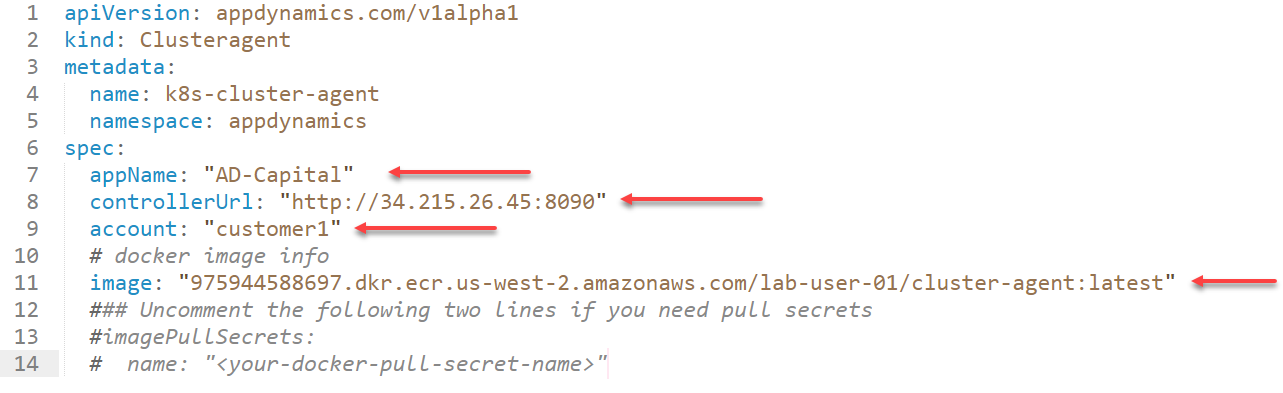
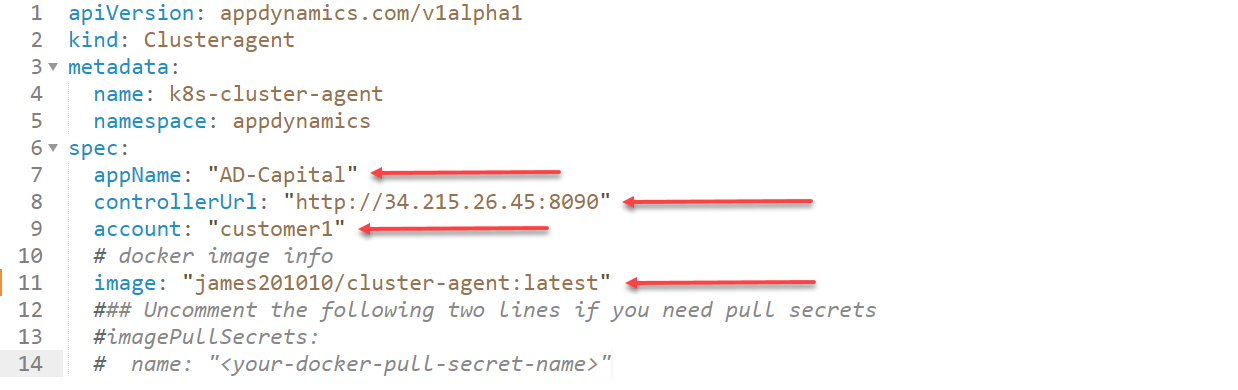
Added and updated artifacts for new Cluster Agent Lab

diff --git a/workshops/aws/eks-monitoring-lab/lab-exercise-06.md b/workshops/aws/eks-monitoring-lab/lab-exercise-06.md
@@ -77,94 +77,13 @@ You should see output from the command similar to the image seen below:
 
 ### **2.** Build the Cluster Agent Docker image
 
-Use your [AWS Management Console](https://aws.amazon.com/console/) and follow the steps below to create a Docker repository in AWS ECR within your region:
-
-1. Click on the "Services" link at the top left of the console
-2. Type in "ECR" into the search box
-3. Click on the first entry named "ECR"
-
-![Cluster Agent ECR-01](./images/cluster-agent-ecr-01.png)
-<br><br>
-
-4. Click on "Repositories" on the left
-5. Click on the "Create repository" button on the top right
-
-![Cluster Agent ECR-02](./images/cluster-agent-ecr-02.png)
-<br><br>
-
-6. Enter the name of your repository as seen in the image below and use your specific lab user number where the red arrow is pointing to, so you **ensure that your repository name is unique**.  For example, if your lab user name is "Lab-User-01" then your repository name would be "lab-user-01/cluster-agent"
-7. Click on the "Create repository" button on the bottom right
-
-![Cluster Agent ECR-03](./images/cluster-agent-ecr-03.png)
-<br><br>
-
-8. Now click on the "View push commands" button on the top right 
-
-![Cluster Agent ECR-04](./images/cluster-agent-ecr-04.png)
-<br><br>
-
-9. Highlight the login command as seen in the image below, then copy and paste it into your SSH terminal window 
-
-![Cluster Agent ECR-05](./images/cluster-agent-ecr-05.png)
-<br><br>
-
-10. Once you have pasted the command into the terminal window and executed the command, you should see a large block of text that you need to highlight and copy as seen in the image below where the block of text has been highlighted in grey 
-
-![Cluster Agent ECR-06](./images/cluster-agent-ecr-06.png)
-<br><br>
-
-11. Now paste the large login command into the terminal window and execute the command. You should see the "Login Succeeded" as the final output of the command
-
-![Cluster Agent ECR-07](./images/cluster-agent-ecr-07.png)
-<br><br>
-
-12. Use the command below to change to the docker directory in your SSH terminal window
+For the purposes of this lab we will use a pre-built Cluster Agent Docker image with the following Image URI: 
 
 ```
-cd /home/centos/AppD-Cloud-Kickstart/applications/aws/AD-Capital-Kube/ClusterAgent/docker
+james201010/cluster-agent:latest
 ```
 
-![Cluster Agent ECR-08](./images/cluster-agent-ecr-08.png)
-<br><br>
-
-13. Copy the docker build command highlighted in the image below and paste it into your SSH terminal window and execute the command
-
-![Cluster Agent ECR-09](./images/cluster-agent-ecr-09.png)
-<br><br>
-
-
-14. Once you have copied the docker build command into your SSH terminal window and executed it, you should see output like the image below.
-
-![Cluster Agent ECR-10](./images/cluster-agent-ecr-10.png)
-<br><br>
-
-
-15. Copy the docker tag command highlighted in the image below and paste it into your SSH terminal window and execute the command.
-
-![Cluster Agent ECR-11](./images/cluster-agent-ecr-11.png)
-<br><br>
-
-
-16. Once you have copied the docker tag command into your SSH terminal window and executed it, you can then execute the ``` docker images ``` command and should see output like the image below.
-
-![Cluster Agent ECR-12](./images/cluster-agent-ecr-12.png)
-<br><br>
-
-
-17. Copy the docker push command highlighted in the image below and paste it into your SSH terminal window and execute the command.
-
-![Cluster Agent ECR-13](./images/cluster-agent-ecr-13.png)
-<br><br>
-
-18. Once you have copied the docker push command into your SSH terminal window and executed it, you should see output like the image below.
-
-![Cluster Agent ECR-14](./images/cluster-agent-ecr-14.png)
-<br><br>
-
-19. Now drill into your Docker repository in the AWS Console, you should see your newly published image inside your repo.  Copy the Image URI of your new image and save it in a text file to use in the next section of the lab.
-
-![Cluster Agent ECR-15](./images/cluster-agent-ecr-15.png)
-<br><br>
+However, if you were deploying the Cluster Agent in your own Kubernetes cluster, you would need to build your own Cluster Agent Docker image in your own Docker repository.  Instructions for building your own Cluster Agent Docker image can be found [here](lab-exercise-06-b.md) and are included for reference only.
 
 <br>
 
@@ -213,12 +132,14 @@ cd /home/centos/AppD-Cloud-Kickstart/applications/aws/AD-Capital-Kube/ClusterAge
 BEFORE:
 ![Cluster Agent Deploy-04](./images/cluster-agent-deploy-04.png)
 
-<br><br>
+<br>
 
 Line 7 should = "AD-Capital"<br>
 Line 8 should = The URL for your controller including the protocol and port (surrounded in double quotes)<br>
 Line 9 should = "customer1"<br>
-Line 11 should = The Image URI of your docker image created in this lab (Section 2.19) - (surrounded in double quotes)
+Line 11 should = "james201010/cluster-agent:latest"
+
+**Note:** Use the value seen above for Line 11 unless you built your own docker image in step number 2.  In that case you would use the Image URI of your docker image.
 
 <br><br>
 

diff --git a/workshops/aws/eks-monitoring-lab/lab-exercise-06-b.md b/workshops/aws/eks-monitoring-lab/lab-exercise-06-b.md
@@ -1,0 +1,94 @@
+### **2.** Build Your Own Cluster Agent Docker image in AWS ECR
+
+These instructions for building your own Cluster Agent Docker image are for reference only and not intended to be part of the instructor lead lab.  If you are participating in an instructor lead lab, please use the pre-built Cluster Agent Docker image referenced [here](lab-exercise-06.md#2.).
+
+Use your [AWS Management Console](https://aws.amazon.com/console/) and follow the steps below to create a Docker repository in AWS ECR within your region:
+
+1. Click on the "Services" link at the top left of the console
+2. Type in "ECR" into the search box
+3. Click on the first entry named "ECR"
+
+![Cluster Agent ECR-01](./images/cluster-agent-ecr-01.png)
+<br><br>
+
+4. Click on "Repositories" on the left
+5. Click on the "Create repository" button on the top right
+
+![Cluster Agent ECR-02](./images/cluster-agent-ecr-02.png)
+<br><br>
+
+6. Enter the name of your repository as seen in the image below and use your specific lab user number where the red arrow is pointing to, so you **ensure that your repository name is unique**.  For example, if your lab user name is "Lab-User-01" then your repository name would be "lab-user-01/cluster-agent"
+7. Click on the "Create repository" button on the bottom right
+
+![Cluster Agent ECR-03](./images/cluster-agent-ecr-03.png)
+<br><br>
+
+8. Now click on the "View push commands" button on the top right 
+
+![Cluster Agent ECR-04](./images/cluster-agent-ecr-04.png)
+<br><br>
+
+9. Highlight the login command as seen in the image below, then copy and paste it into your SSH terminal window 
+
+![Cluster Agent ECR-05](./images/cluster-agent-ecr-05.png)
+<br><br>
+
+10. Once you have pasted the command into the terminal window and executed the command, you should see a large block of text that you need to highlight and copy as seen in the image below where the block of text has been highlighted in grey 
+
+![Cluster Agent ECR-06](./images/cluster-agent-ecr-06.png)
+<br><br>
+
+11. Now paste the large login command into the terminal window and execute the command. You should see the "Login Succeeded" as the final output of the command
+
+![Cluster Agent ECR-07](./images/cluster-agent-ecr-07.png)
+<br><br>
+
+12. Use the command below to change to the docker directory in your SSH terminal window
+
+```
+cd /home/centos/AppD-Cloud-Kickstart/applications/aws/AD-Capital-Kube/ClusterAgent/docker
+```
+
+![Cluster Agent ECR-08](./images/cluster-agent-ecr-08.png)
+<br><br>
+
+13. Copy the docker build command highlighted in the image below and paste it into your SSH terminal window and execute the command
+
+![Cluster Agent ECR-09](./images/cluster-agent-ecr-09.png)
+<br><br>
+
+
+14. Once you have copied the docker build command into your SSH terminal window and executed it, you should see output like the image below.
+
+![Cluster Agent ECR-10](./images/cluster-agent-ecr-10.png)
+<br><br>
+
+
+15. Copy the docker tag command highlighted in the image below and paste it into your SSH terminal window and execute the command.
+
+![Cluster Agent ECR-11](./images/cluster-agent-ecr-11.png)
+<br><br>
+
+
+16. Once you have copied the docker tag command into your SSH terminal window and executed it, you can then execute the ``` docker images ``` command and should see output like the image below.
+
+![Cluster Agent ECR-12](./images/cluster-agent-ecr-12.png)
+<br><br>
+
+
+17. Copy the docker push command highlighted in the image below and paste it into your SSH terminal window and execute the command.
+
+![Cluster Agent ECR-13](./images/cluster-agent-ecr-13.png)
+<br><br>
+
+18. Once you have copied the docker push command into your SSH terminal window and executed it, you should see output like the image below.
+
+![Cluster Agent ECR-14](./images/cluster-agent-ecr-14.png)
+<br><br>
+
+19. Now drill into your Docker repository in the AWS Console, you should see your newly published image inside your repo.  Copy the Image URI of your new image and save it in a text file to use in the next section of the lab.
+
+![Cluster Agent ECR-15](./images/cluster-agent-ecr-15.png)
+<br><br>
+
+<br>
